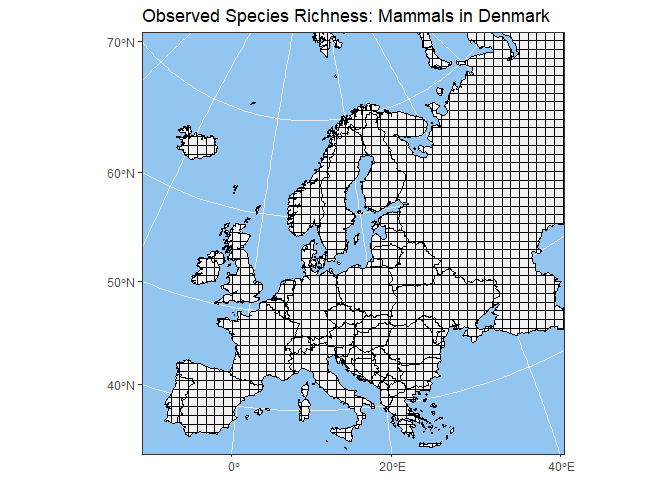
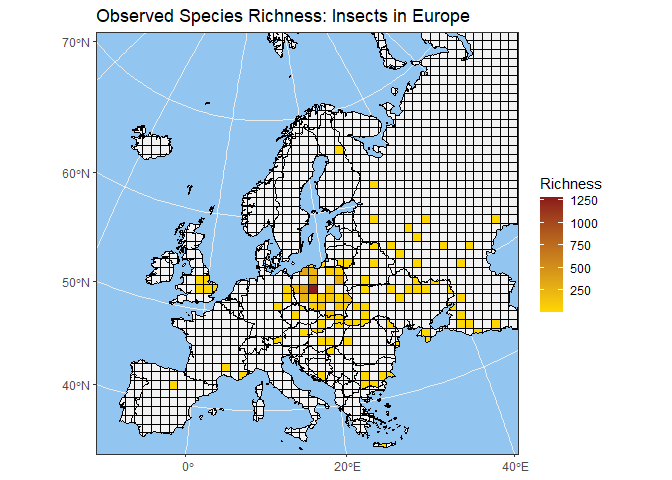
revert to fix example

diff --git a/README.md b/README.md
@@ -64,16 +64,19 @@ amphibians in Europe:
 library(b3gbi)
 
 # Load GBIF data cube
-cube_name <- system.file("extdata", "denmark_mammals_cube_eqdgc.csv", package = "b3gbi")
+cube_name <- system.file("extdata", "europe_insect_cube.csv", package = "b3gbi")
+
+# Load taxonomic info for cube
+tax_info <- system.file("extdata", "europe_insect_info.csv", package = "b3gbi")
 
 # Prepare cube
-dk_mammal_data <- process_cube(cube_name)
+insect_data <- process_cube(cube_name, tax_info)
 
 # Calculate diversity metric
-map_obs_rich_mammals <- obs_richness_map(dk_mammal_data)
+map_obs_rich_insects <- obs_richness_map(insect_data)
 
 # Plot diversity metric
-plot(map_obs_rich_mammals, title = "Observed Species Richness: Mammals in Denmark")
+plot(map_obs_rich_insects, title = "Observed Species Richness: Insects in Europe")
 ```
 
 <img src="man/figures/README-example-1.png" width="100%" />
